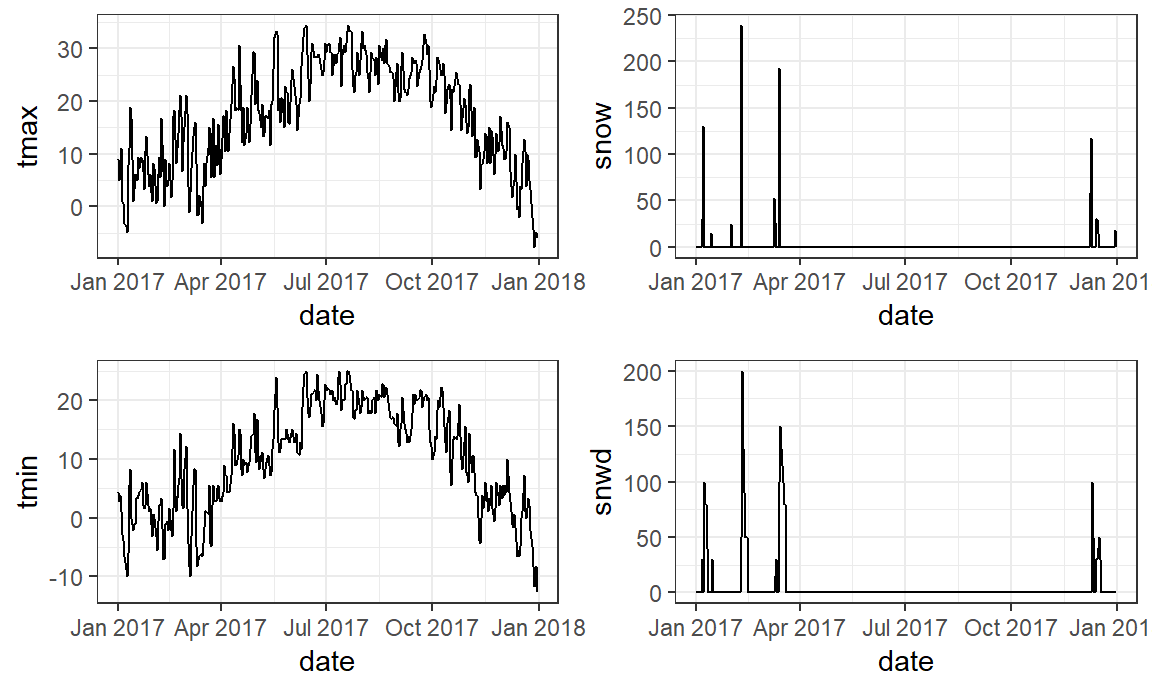
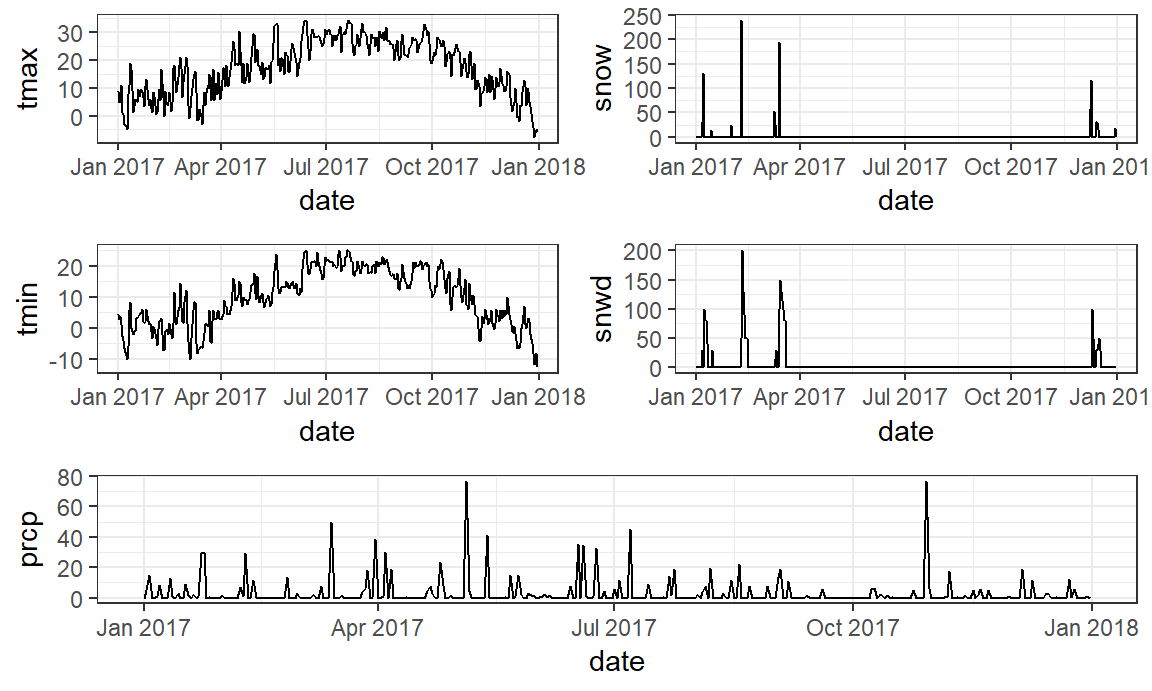
visualisation_2

Changed region(s): [[0.0, 0.0304, 1.0, 0.9725], [0.5, 0.6382, 0.5938, 0.7598]]

diff --git a/weather_EDA.html b/weather_EDA.html
@@ -613,8 +613,13 @@ snwd_plot =
   ggplot(aes(x = date, y = snwd)) +
   geom_line()
 
-(tmax_plot + snow_plot) / (tmin_plot + snwd_plot)</code></pre>
[1 lines of base64/hex data omitted]
+prcp_plot = 
+  nyc_weather_2017 %&gt;% 
+  ggplot(aes(x = date, y = prcp)) +
+  geom_line()
+
+((tmax_plot + snow_plot) / (tmin_plot + snwd_plot)) / prcp_plot</code></pre>
[1 lines of base64/hex data omitted]
 
 
 
